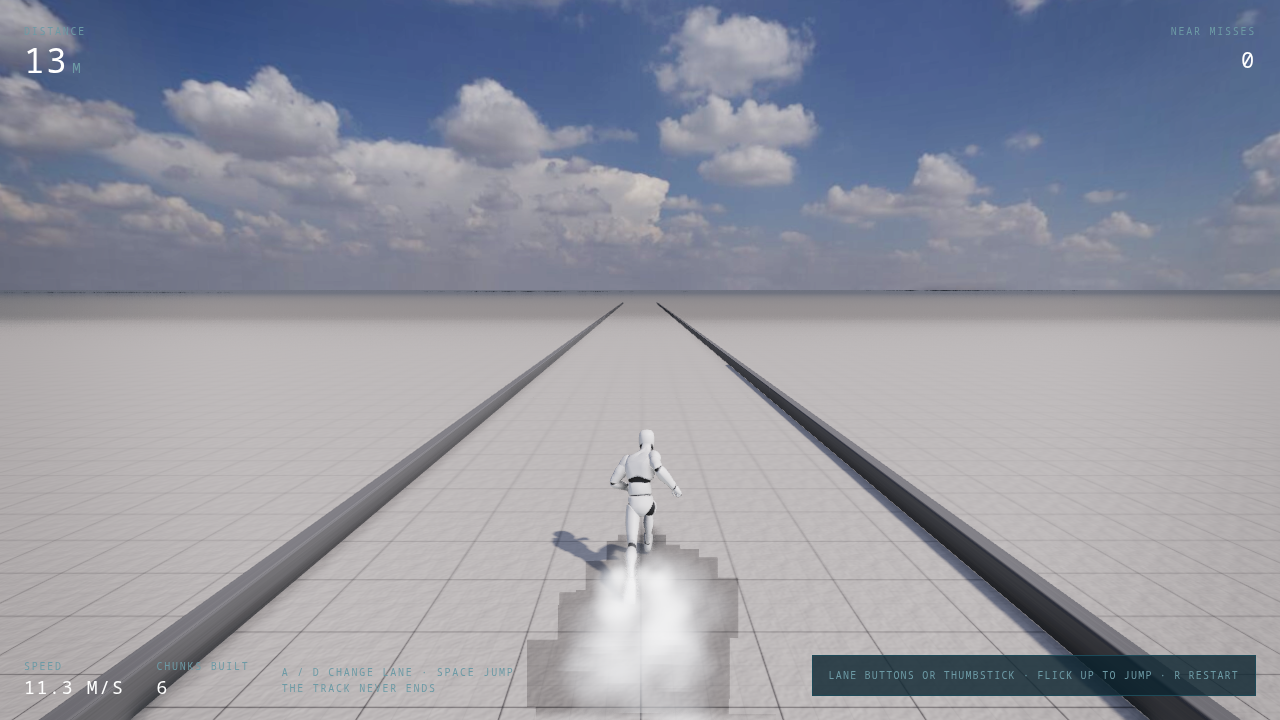
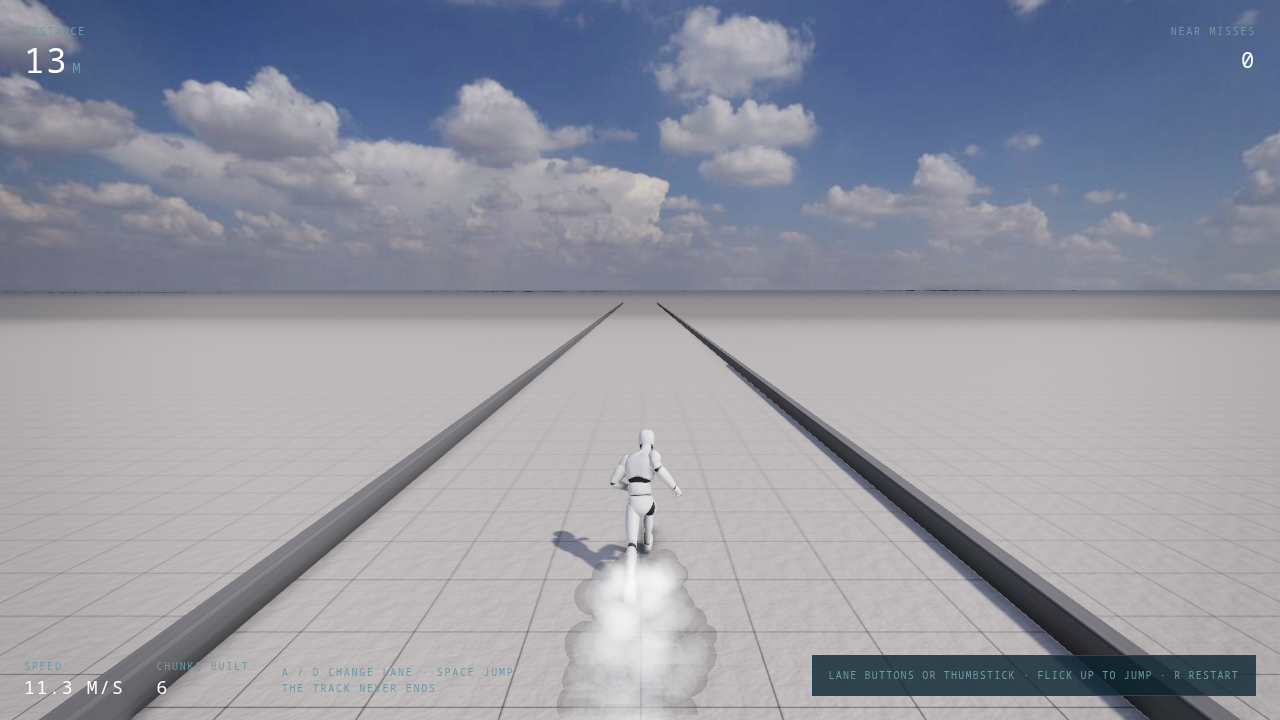
fix(PRD-470): runner dust no longer darkens a square under the puff
The dust sprites write their whole quad into the scene pass's depth and normal buffers, so the
denoised AO darkened a stair-stepped square around every puff. Ablation: gtaoEnabled false
removed it; a zeroed per-material mrtNode made it a solid black square (the sprite overwrites
the normal attachment, it does not blend); alphaTest 0.15 discards the transparent corners so
they write nothing, leaving round puffs.

Layer: game (template render source), one line in dust.ts. Other templates' particles were not
checked.

Proof: verify-one-template runner - production-performance, streams, survives pass;
create-threenative 797/797. runner.png recaptured from the same run.

Changed region(s): [[0.4688, 0.7639, 0.5938, 1.0], [0.4062, 0.7333, 0.5312, 1.0], [0.4688, 0.9167, 0.5, 0.9472]]

diff --git a/packages/create-threenative/__tests__/scaffold.spec.ts b/packages/create-threenative/__tests__/scaffold.spec.ts
@@ -448,7 +448,7 @@ const PRD_201_PARENT_SCAFFOLD_HASHES: Readonly<Record<string, string>> = {
   // only the starter tree moves.
[7 lines of base64/hex data omitted]

diff --git a/packages/create-threenative/templates/runner/src/render/dust.ts b/packages/create-threenative/templates/runner/src/render/dust.ts
@@ -90,6 +90,9 @@ export function createDustTrail(): IDustOptions {
     toneMapped: false,
     transparent: true,
   });
+  // Fragments below this alpha are discarded, so the quad's transparent corners write nothing to
+  // the scene pass's depth and normal buffers — AO would otherwise darken the whole square.
+  material.alphaTest = 0.15;
   const life = varying(phase());
   material.scaleNode = vec2(0.42).mul(mix(0.5, 1.5, life));
   const birth = new Array(3)
